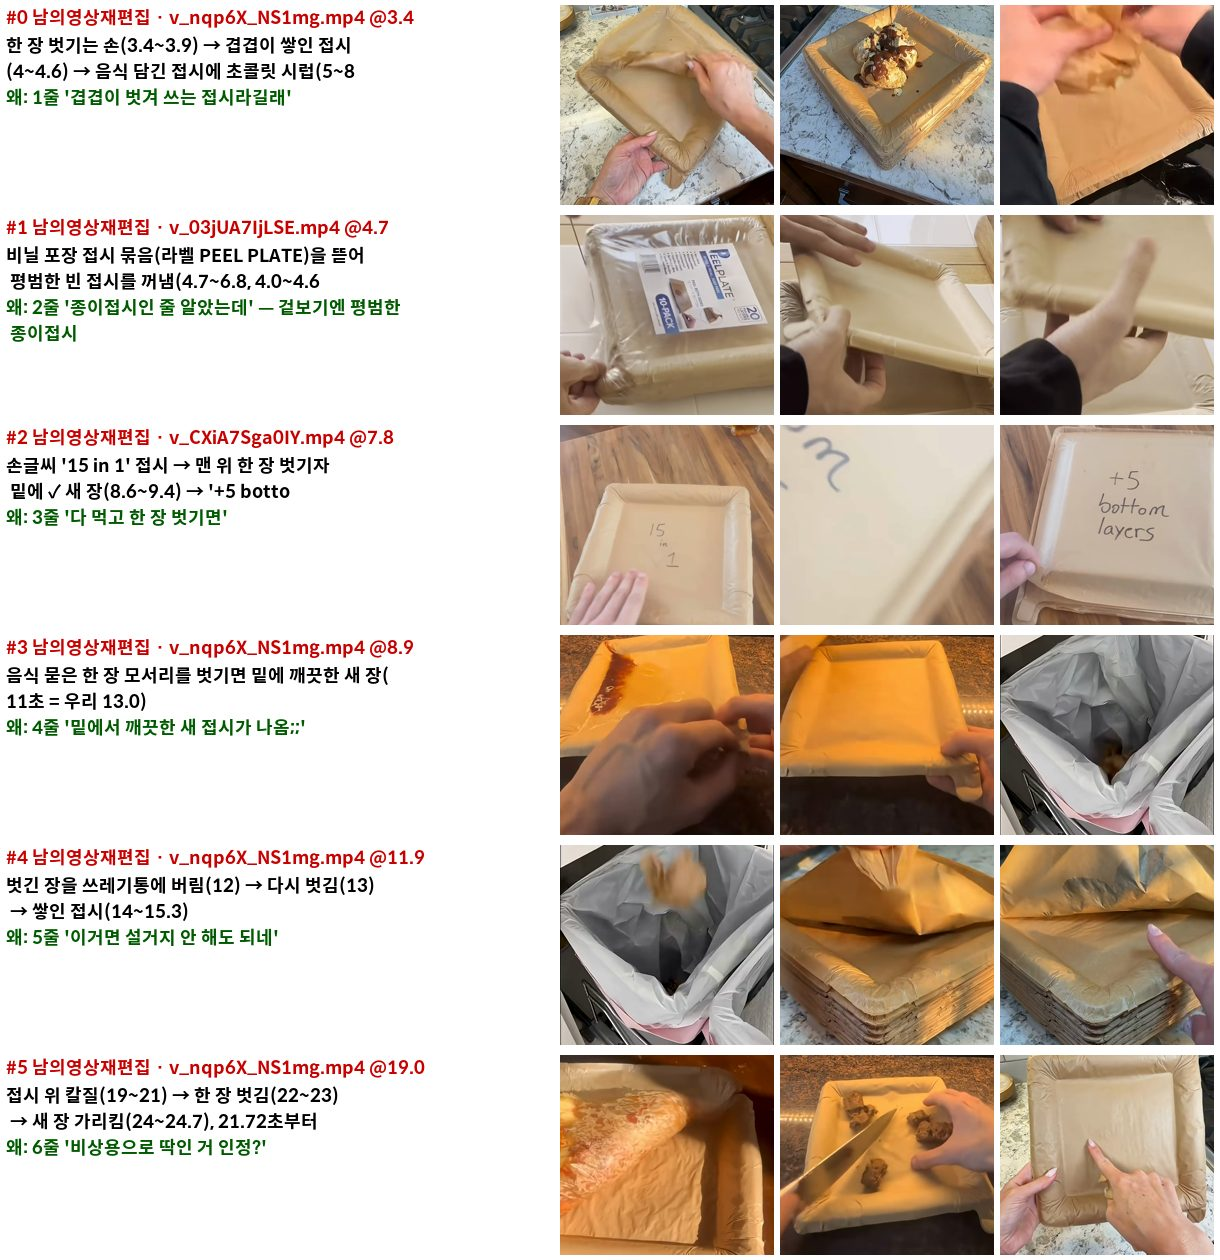
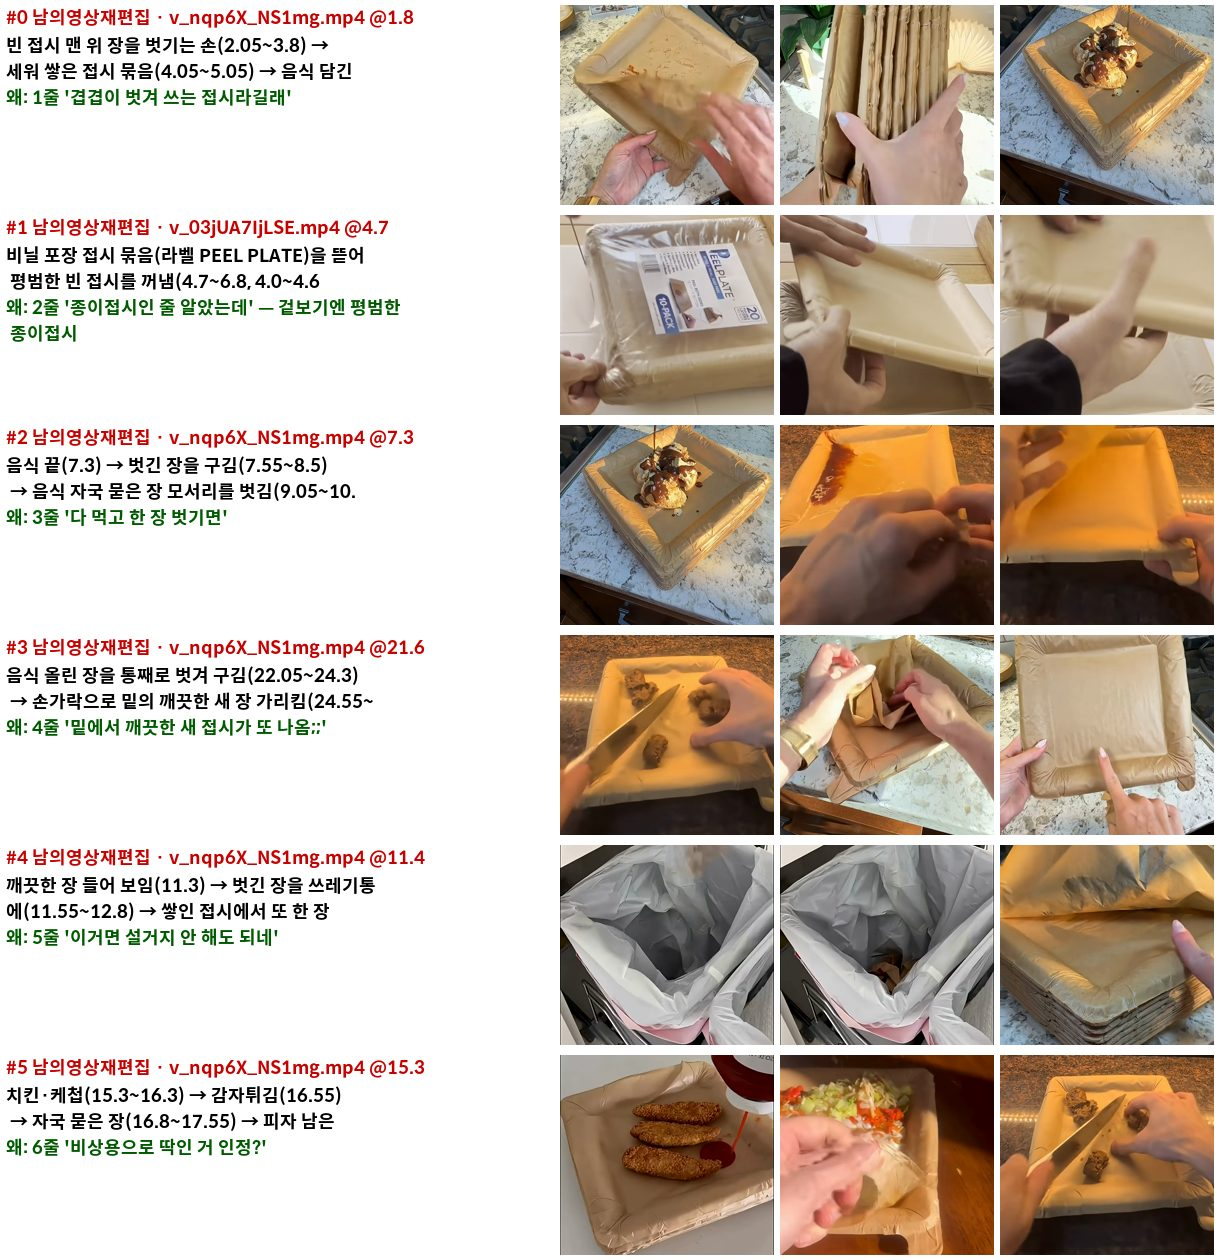
썰풀다 틀 A 새소재4 벗겨 쓰는 접시 렌더: 전 컷 mute+BGM(소리 변형), CXiA 뺌·3~6줄 nqp6X 재배치(겹침 0), 효과음 20.22초 1발(팩에 종이 소리 없음), 23.87초·-10.3 LUFS·compare ① 20/27 (관제 097)
Claude-Session: https://claude.ai/code/session_01BTrZqzTa3Berb8VK4gs4B4

diff --git a/channel/sseolpulda/새소재4/대조/차이표.md b/channel/sseolpulda/새소재4/대조/차이표.md
@@ -1,0 +1,68 @@
+# 칼카피 대조 차이표
+
+- 원본: `C:/숏템_칼카피/sseolpulda/mp4/ZdeZRtCeAC4.mp4` (23.9초)
+- 우리: `C:\숏템_칼카피\sseolpulda\새소재4\render\final.mp4` (23.867초)
+- 자: bench_one.measure(layout_mode=`single`) — 두 영상에 같은 함수
+- 규칙 자료(뜯기.json): 원본 `None` · 우리 `None`
+- **판정(① 픽셀 수준만): 미달** (기준 27개 중 안 20개)
+- ① 밖: 배경 RGB, 창 위 띠2 [222,305) 잉크 비율, 창 위 띠3 [318,399) 글자 높이(px), 창 위 띠3 [318,399) 획 두께(px), 줄 폭 중앙(px), 컷 길이 중앙(초), 컷 길이 p90(초)
+- ① 못 잼: 없음
+- ② 규칙 수준(판정 제외): 안 1개 · 밖 없음 · 미측정 10개
+
+## ① 픽셀 수준 (판정에 들어감)
+
+| 묶음 | 항목 | 원본 | 우리 | 차 | 기준 | 안/밖 | 잰 함수 |
+|---|---|---|---|---|---|---|---|
+| 틀 | 영상 창 [x,y,w,h] | [0, 426, 1080, 1006] | [0, 426, 1080, 1006] | 0 | 영상 창 x,y,w,h 차 ≤ 4px | 안 | `layout.measure_video` |
+| 틀 | 배경 RGB | [241, 235, 237] | [233, 227, 228] | 9 | 배경 RGB 채널 최대차 ≤ 8 | **밖** | `layout.measure_video` |
+| 틀 | 자막 자리 | below | below | 같음 | 자막 자리(위/아래/안) 같음 | 안 | `layout._caption` |
+| 틀 | 자막 잉크 극성 | dark | dark | 같음 | 자막 잉크 극성 같음 | 안 | `layout._caption` |
+| 틀 | 자막 띠 [y0,y1) | [1466, 1530] | [1466, 1528] | 2 | 자막 띠 y0,y1 차 ≤ 4px (틀 좌표 기준 §6-1) | 안 | `layout._caption` |
+| 틀 | 창 위 고정 띠 [[y0,y1)…] | [[10, 65], [222, 305], [318, 399]] | [[11, 66], [223, 306], [315, 402]] | 다름 | 참고(설계에 기준 수치 없음) | 참고 | `layout.measure_video(above_bands)` |
+| 틀 | 띠 색 | - | - | - | 참고(설계에 기준 수치 없음) | 참고(failed:원본: bench에 띠 색을 재는 자가 없음(layout은 창 밖 배경 RGB만 잰다) / 우리: bench에 띠 색을 재는 자가 없음(layout은 창 밖 배경 RGB만 잰다)) | `-` |
+| 틀 | 창 위 고정 글자 띠 개수 | 3 | 3 | 같음 | 창 위 고정 글자 띠 개수 같음 | 안 | `bands.measure_video` |
+| 틀 | 제목 블록 아래 끝~창 위 끝(px) | 29 | 25 | 4 | 제목 블록 아래 끝~창 위 끝 간격 차 ≤ 8px | 안 | `layout.window − bands.ink_bottom` |
+| 틀 | 창 위 띠1 [10,65) 글자 높이(px) | 52 | 55 | 3.0 (5.8%) | 띠 글자 높이 차 ≤ 6% | 안 | `bands.band_style(captions.glyph_style)` |
+| 틀 | 창 위 띠1 [10,65) 획 두께(px) | 2 | 2 | 0 | 띠 획 두께 차 ≤ 1px | 안 | `bands.band_style(captions.glyph_style)` |
+| 틀 | 창 위 띠1 [10,65) 잉크 비율 | 0.02513 | 0.02362 | -0.002 (6.0%) | 띠 잉크 비율 차 ≤ 20% | 안 | `bands.band_style(layout.ink_mask)` |
+| 틀 | 창 위 띠2 [222,305) 글자 높이(px) | 82 | 83 | 1.0 (1.2%) | 띠 글자 높이 차 ≤ 6% | 안 | `bands.band_style(captions.glyph_style)` |
+| 틀 | 창 위 띠2 [222,305) 획 두께(px) | 16 | 16 | 0 | 띠 획 두께 차 ≤ 1px | 안 | `bands.band_style(captions.glyph_style)` |
+| 틀 | 창 위 띠2 [222,305) 잉크 비율 | 0.25614 | 0.34169 | 0.086 (33.4%) | 띠 잉크 비율 차 ≤ 20% | **밖** | `bands.band_style(layout.ink_mask)` |
+| 틀 | 창 위 띠3 [318,399) 글자 높이(px) | 80 | 87 | 7.0 (8.8%) | 띠 글자 높이 차 ≤ 6% | **밖** | `bands.band_style(captions.glyph_style)` |
+| 틀 | 창 위 띠3 [318,399) 획 두께(px) | 14 | 16 | 2 | 띠 획 두께 차 ≤ 1px | **밖** | `bands.band_style(captions.glyph_style)` |
+| 틀 | 창 위 띠3 [318,399) 잉크 비율 | 0.36859 | 0.37873 | 0.01 (2.8%) | 띠 잉크 비율 차 ≤ 20% | 안 | `bands.band_style(layout.ink_mask)` |
+| 자막 | 첫 줄 y 중앙(px) | 1467 | 1467 | 0.0px (0.0% of H1920) | 첫 줄 y 중앙 차 ≤ 화면 높이의 6% | 안 | `captions.caption_lines` |
+| 자막 | 줄 수 중앙 | 1 | 1 | 같음 | 줄 수(중앙) 같음 | 안 | `captions.caption_lines` |
+| 자막 | 줄 폭 중앙(px) | 583 | 640 | 57.0 (9.8%) | 줄 폭 중앙 차 ≤ 6% | **밖** | `captions.caption_lines` |
+| 자막 | 첫 줄 높이 중앙(px) | 62 | 61.5 | -0.5 (0.8%) | 첫 줄 높이 중앙 차 ≤ 6% | 안 | `captions.glyph_style` |
+| 자막 | 획 두께 중앙(px) | 7 | 7 | 0 | 획 두께 중앙 차 ≤ 1px | 안 | `captions.glyph_style` |
+| 자막 | 외곽선 있음(다수) | 없음 | 없음 | 같음 | 외곽선 유무(다수) 같음 — bench는 굵기 px를 안 재고 유무만 잰다 | 안 | `captions.glyph_style` |
+| 자막 | 그림자 있음(다수) | 없음 | 없음 | 같음 | 참고(설계에 기준 수치 없음) | 참고 | `captions.glyph_style` |
+| 자막 | 등장효과(최빈) | 없음 | 없음 | 같음 | 등장효과 종류(최빈) 같음 | 안 | `captions.caption_anim` |
+| 자막 | 자막당 초 중앙 | 3.55 | 3.5 | -0.05 (1.4%) | 자막당 초 중앙 차 ≤ 15% | 안 | `captions.caption_track(흔들림 구간 제외)` |
+| 자막 | 자막 개수 | 6 | 7 | 1 | 참고(설계에 기준 수치 없음) | 참고 | `captions.caption_track(흔들림 구간 제외)` |
+| 컷 | 컷 길이 중앙(초) | 3.333 | 1.45 | -1.883 (56.5%) | 컷 길이 중앙 차 ≤ 15% | **밖** | `cuts.shot_lengths` |
+| 컷 | 컷 길이 p90(초) | 6.7 | 2.283 | -4.417 (65.9%) | 컷 길이 p90 차 ≤ 15% | **밖** | `cuts.shot_lengths` |
+| 컷 | 첫 컷 시각(초) | 7.333 | 2.267 | -5.066 | 참고(설계에 기준 수치 없음) | 참고 | `cuts.shot_lengths` |
+| 컷 | 자막=컷 일치율(%) | 20 | 20 | 0 | 참고(설계에 기준 수치 없음) | 참고 | `cuts.cut_eq_sub` |
+| 컷 | 샷 수 | 6 | 16 | 10 | 참고(설계에 기준 수치 없음) | 참고 | `cuts.scene_detect+merge_close+cut_verify` |
+| 소리 | True Peak(dBTP) | 0.7 | -0.5 | -1.2 | 참고(설계에 기준 수치 없음) | 참고 | `audio.ebur128` |
+| 길이 | 길이(초, 프레임÷fps) | 23.9 | 23.867 | -0.033 (0.1%) | 길이 차 ≤ 15% | 안 | `probe.info` |
+
+## ② 규칙 수준 (같은 파일인지가 아니라 규칙만 — 판정 제외, 표에만)
+
+| 묶음 | 항목 | 원본 | 우리 | 차 | 기준 | 안/밖 | 잰 함수 |
+|---|---|---|---|---|---|---|---|
+| 효과음 | 효과음 발수/초 | - | - | - | 효과음 발수/초 차 ≤ 30% | failed:원본: 미측정(--rules-json 없음) / 우리: 미측정(--rules-json 없음) | `뜯기.json audio.composition.sfx_per_sec(audio_comp.spikes)` |
+| 효과음 | 효과음 중 자막 교체·컷 ±0.2s 비율(%) | - | - | - | 효과음 자리(자막 교체·컷 ±0.2s) 비율 차 ≤ 20%p | failed:원본: 미측정(--rules-json 없음) / 우리: 미측정(--rules-json 없음) | `뜯기.json sfx 시각 × bench captions.changes+cuts` |
+| 배경음 | 배경음 있음 | - | - | - | 배경음 있음/없음 같음 | failed:원본: 미측정(--rules-json 없음) / 우리: 미측정(--rules-json 없음) | `뜯기.json rules.bgm.present` |
+| 배경음 | 배경음 LUFS | - | - | - | 배경음 LUFS 차 ≤ 1.5dB | failed:원본: 미측정(--rules-json 없음) / 우리: 미측정(--rules-json 없음) | `뜯기.json rules.bgm.lufs` |
+| 배경음 | 통합 LUFS(믹스) | -10.1 | -10.3 | 0.2 | 통합 LUFS(믹스) 차 ≤ 1.5dB — 배경음만 뗀 값 아님 | 안 | `audio.ebur128` |
+| 배경음 | 덕킹 dB(나레 구간−말 없는 구간) | - | - | - | 덕킹 dB 차 ≤ 3dB | failed:원본: 미측정(--rules-json 없음) / 우리: 미측정(--rules-json 없음) | `뜯기.json audio.composition.duck_db` |
+| 짤 | 짤 개수/편 | - | - | - | 짤 편당 개수 차 ≤ 1 | failed:원본: 미측정(--rules-json 없음) / 우리: 미측정(--rules-json 없음) | `뜯기.json materials.per_shot(kind=짤·밈)` |
+| 짤 | 짤 자리 {훅,중간,끝} | - | - | - | 짤 자리(훅/중간/끝) 칸마다 개수 차 ≤ 1 | failed:원본: 미측정(--rules-json 없음) / 우리: 미측정(--rules-json 없음) | `뜯기.json materials.per_shot(kind=짤·밈) t 가운데` |
+| 목소리 | 화자 성별(정렬) | - | - | - | 목소리 성별 구성 같음 | failed:원본: 미측정(--rules-json 없음) / 우리: 미측정(--rules-json 없음) | `뜯기.json audio.composition.speakers.gender` |
+| 목소리 | 화자 수 | - | - | - | 목소리 역할(화자) 수 같음 | failed:원본: 미측정(--rules-json 없음) / 우리: 미측정(--rules-json 없음) | `뜯기.json audio.composition.speakers` |
+| 목소리 | 말속도(글자/초) | - | - | - | 말속도(글자/초) 차 ≤ 10% | failed:원본: 미측정(받아쓰기 --asr-orig/--asr-ours 없음) / 우리: 미측정(받아쓰기 --asr-orig/--asr-ours 없음) | `compare.asr_cps(speechmatics 단어 시각)` |
+
+나란히 그림: `C:\숏템_칼카피\sseolpulda\새소재4\render\대조\side_by_side.jpg` (위=원본·아래=우리, 같은 상대 시각 8지점, 초록=잰 영상 창·빨강=잰 자막 띠)

diff --git a/channel/sseolpulda/새소재4/근거.md b/channel/sseolpulda/새소재4/근거.md
@@ -1,15 +1,16 @@
-# 썰풀다 틀 A 새소재4 (벗겨 쓰는 종이접시) — 줄별 근거 · 컷 매핑 (10-16 저녁 오푸스)
+# 썰풀다 틀 A 새소재4 (벗겨 쓰는 종이접시) — 줄별 근거 · 컷 매핑 (10-16 저녁 오푸스, 페이블 조건부 OK 반영판)
 
 | 줄 | 자막(글자) | 근거 | 컷(우리 초) | 소스·구간 | 해상도 | 원음 |
 |---|---|---|---|---|---|---|
-| 1 발견 | 해외에서 겹겹이 벗겨 쓰는 접시라길래 (16) | f1 씨앗 제목·설명(185만 회) · f2 Peelware '15 Servings Per Plate' | 0~5.2 | nqp6X_NS1mg 3.4~8.6 (src_crop y680~1920) | 1080×1920 | 끔(일본어 나레) |
-| 2 의심 | 종이접시인 줄 알았는데 (10) | v2 포장 묶음에서 평범한 빈 접시를 꺼냄 | 5.2~7.3 | 03jUA7IjLSE 4.7~6.8 | 1080×1920 | **살림**(말 없음) |
-| 3 반전 | 다 먹고 한 장 벗기면 (8) | v3 맨 위 한 장 벗기자 밑에 ✓ 새 장 · f2 | 7.3~10.9 | CXiA7Sga0IY 7.8~11.4 | 1080×1920 | **살림**(말 없음) |
-| 4 결과 | 밑에서 깨끗한 새 접시가 또 나옴;; (15) | v4 음식 묻은 장 모서리를 벗기면 깨끗한 새 장 · f2 | 10.9~14.8 | nqp6X 8.9~12.8 | 1080×1920 | 끔 |
-| 5 감탄 | 이거면 설거지 안 해도 되네 (11) | c2 댓글 「洗わなくて済むから使ってます」1,095 · v5 벗긴 장을 쓰레기통에 | 14.8~18.2 | nqp6X 11.9~15.3 | 1080×1920 | 끔 |
-| 6 인정 | 비상용으로 딱인 거 인정? (11) | c1 댓글 「災害時には良さそう」9,380 · 「非常時用に買おうかな」3,557 | 18.2~23.9(21.72~ 틀 없는 꼬리) | nqp6X 19.0~24.7 | 1080×1920 | 끔 |
+| 1 발견 | 해외에서 겹겹이 벗겨 쓰는 접시라길래 (16) | f1 씨앗 제목·설명(185만 회) · f2 Peelware '15 Servings Per Plate' | 0~5.2 | nqp6X_NS1mg 1.8~7.0 (벗기는 손→세워 쌓은 묶음→음식 접시) | 1080×1920 | 끔 |
+| 2 의심 | 종이접시인 줄 알았는데 (10) | v2 포장 묶음에서 평범한 빈 접시를 꺼냄 | 5.2~7.3 | 03jUA7IjLSE 4.7~6.8 | 1080×1920 | 끔 |
+| 3 반전 | 다 먹고 한 장 벗기면 (8) | f2 · 화면 nqp6X 7.55~10.3 음식 묻은 장 벗김 | 7.3~10.9 | nqp6X 7.3~10.9 | 1080×1920 | 끔 |
+| 4 결과 | 밑에서 깨끗한 새 접시가 또 나옴;; (15) | f2(peel away to reveal a clean layer) · 화면 nqp6X 22.05~24.3 벗김 → 24.55~ 새 장 가리킴 | 10.9~14.8 | nqp6X 21.6~25.5 | 1080×1920 | 끔 |
+| 5 감탄 | 이거면 설거지 안 해도 되네 (11) | c2 댓글 「洗わなくて済むから使ってます」1,095 · 화면 쓰레기통에 버림(11.55~12.8)→또 벗김 | 14.8~18.2 | nqp6X 11.4~14.8 | 1080×1920 | 끔 |
+| 6 인정 | 비상용으로 딱인 거 인정? (11) | c1 댓글 「災害時には良さそう」9,380 · 「非常時用に買おうかな」3,557 | 18.2~23.9(21.72~ 꼬리) | nqp6X 15.3~21.0 | 1080×1920 | 끔 |
 
-- 원음 살린 2컷: 받아쓰기(무료 제미나이) 말 없음. ★단 그 원음은 소스 배경음악(전자음악)이고 벗기는 종이 소리는 없다 — 제미나이에 03jU 0.2~2.8·4.2~6.4, CXiA 7.8~11.4 를 따로 물어 셋 다 paper_sound=false.
-- mute 4컷: 씨앗 nqp6X 는 0~25초 일본어 나레 → `mute: true`(remake_video 3d8ffbc98). 위쪽 일본어 UI·제목·자막 띠(y 0~665)는 src_crop 으로 잘라냄.
-- 안 쓴 구간: 03jU 2.8~4.6('15 PEELS' 글자)·7.0~8.4('PEEL PLATE' 글자)·9.8~(AI 의심 식사 장면) · CXiA 0~4.5(채석장)·12.5~(그래픽) · okrz(글자 자막·틱톡 표식) · THU9·Xmu·Yj7m(글자 자막 박힘).
-- 숫자: 브랜드마다 장 수가 15/20 이라 대본에 숫자 없음.
+- 소스 구간 겹침·되풀이 없음: nqp6X 1.8~7.0 / 7.3~10.9 / 11.4~14.8 / 15.3~21.0 / 21.6~25.5.
+- 페이블 지정(4줄 10.9~12.8)과 다름: 그 구간은 깨끗한 장 0.85초 뒤 쓰레기통 장면이라 5줄과 겹친다 → 4줄은 '벗김→새 장 가리킴'(21.6~25.5)으로.
+- 소리: 전 컷 원음 끔 + BGM. 원음 살릴 후보(03jU·CXiA)도 소스 배경음악뿐·종이 소리 없음(제미나이 판독 3구간). 틀 A 소리 변형(원음 없음, 소재 특성).
+- 효과음: 팩에 종이 벗기기/찢기/바스락 없음 → 원본 자리 20.22초 1발(ding_0)만.
+- CXiA 손글씨 컷은 뺌(영어 손글씨, 3줄과 안 맞음).

diff --git a/channel/sseolpulda/새소재4/plan/계획.md b/channel/sseolpulda/새소재4/plan/계획.md
@@ -1,7 +1,7 @@
 # 계획 — ZdeZRtCeAC4
 
 - 꼴: 원음만+자막(remake_video) · 틀 frame.json
-- 접촉 시트: `C:\숏템_칼카피\sseolpulda\새소재4\plan\계획_시트.jpg`
+- 접촉 시트: `C:\숏템_칼카피\sseolpulda\새소재4\render\계획_시트.jpg`
 
 ## 대본
 
@@ -29,12 +29,12 @@
 
 | # | 종류 | 소스 | 시작 | 칸 | src_crop | 왜 |
 |---|---|---|---|---|---|---|
-| 0 | 남의영상재편집 | [v_nqp6X_NS1mg.mp4](https://www.youtube.com/shorts/nqp6X_NS1mg) | 3.4 | 원본 순번 | [0, 680, 1080, 1240] | 1줄 '겹겹이 벗겨 쓰는 접시라길래' |
+| 0 | 남의영상재편집 | [v_nqp6X_NS1mg.mp4](https://www.youtube.com/shorts/nqp6X_NS1mg) | 1.8 | 원본 순번 | [0, 680, 1080, 1240] | 1줄 '겹겹이 벗겨 쓰는 접시라길래' |
 | 1 | 남의영상재편집 | [v_03jUA7IjLSE.mp4](https://www.youtube.com/shorts/03jUA7IjLSE) | 4.7 | 원본 순번 | - | 2줄 '종이접시인 줄 알았는데' — 겉보기엔 평범한 종이접시 |
-| 2 | 남의영상재편집 | [v_CXiA7Sga0IY.mp4](https://www.youtube.com/shorts/CXiA7Sga0IY) | 7.8 | 원본 순번 | - | 3줄 '다 먹고 한 장 벗기면' |
-| 3 | 남의영상재편집 | [v_nqp6X_NS1mg.mp4](https://www.youtube.com/shorts/nqp6X_NS1mg) | 8.9 | 원본 순번 | [0, 680, 1080, 1240] | 4줄 '밑에서 깨끗한 새 접시가 나옴;;' |
-| 4 | 남의영상재편집 | [v_nqp6X_NS1mg.mp4](https://www.youtube.com/shorts/nqp6X_NS1mg) | 11.9 | 원본 순번 | [0, 680, 1080, 1240] | 5줄 '이거면 설거지 안 해도 되네' |
-| 5 | 남의영상재편집 | [v_nqp6X_NS1mg.mp4](https://www.youtube.com/shorts/nqp6X_NS1mg) | 19.0 | 원본 순번 | [0, 680, 1080, 1240] | 6줄 '비상용으로 딱인 거 인정?' |
+| 2 | 남의영상재편집 | [v_nqp6X_NS1mg.mp4](https://www.youtube.com/shorts/nqp6X_NS1mg) | 7.3 | 원본 순번 | [0, 680, 1080, 1240] | 3줄 '다 먹고 한 장 벗기면' |
+| 3 | 남의영상재편집 | [v_nqp6X_NS1mg.mp4](https://www.youtube.com/shorts/nqp6X_NS1mg) | 21.6 | 원본 순번 | [0, 680, 1080, 1240] | 4줄 '밑에서 깨끗한 새 접시가 또 나옴;;' |
+| 4 | 남의영상재편집 | [v_nqp6X_NS1mg.mp4](https://www.youtube.com/shorts/nqp6X_NS1mg) | 11.4 | 원본 순번 | [0, 680, 1080, 1240] | 5줄 '이거면 설거지 안 해도 되네' |
+| 5 | 남의영상재편집 | [v_nqp6X_NS1mg.mp4](https://www.youtube.com/shorts/nqp6X_NS1mg) | 15.3 | 원본 순번 | [0, 680, 1080, 1240] | 6줄 '비상용으로 딱인 거 인정?' |
 
 ## 규칙 예상(렌더 전 — 컷 수 기준, 실제 시간 비율은 렌더 뒤 규칙표)
 
@@ -56,7 +56,7 @@
 ## 나레 설계(뜯기 voice_rules → 우리)
 
 - 원본: 성별 ['male'] · 말속도 None자/초 · 어조 열정적이고 호소력 짙은 남성 보컬 · 존댓말 비율 None
-- 우리: 나레 없음 — 원음(2컷) + BGM, mute 4컷은 BGM 이 채움(BGM_FILL 1.0), TTS 0
+- 우리: 나레 없음 — 전 컷 원음 끔 + BGM qiuqiu(원음 빈자리 BGM_FILL), TTS 0
 
 ## 자막 효과(뜯기 caption_motion·text_fx → 우리)
 
